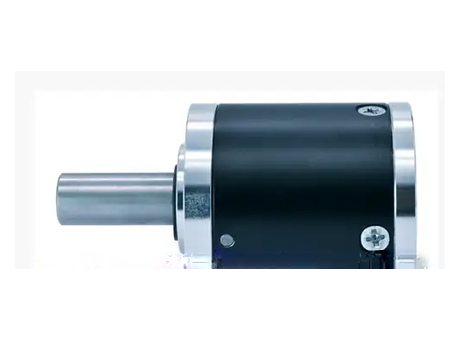
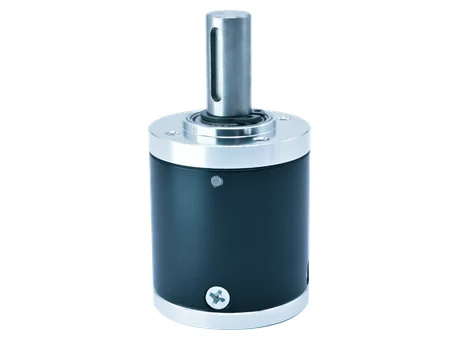
Replace 36P website and TraceParts images using newly supplied real product photo
* Replace 36P recovered image with photograph supplied directly by SigGear

* Use fresh original-photo JPG URL on 36P product page and update caption

* Temporarily build website and TraceParts JPEGs from newly supplied authentic 36P photo

* Regenerate 36P website and TraceParts JPGs from user supplied photo

* Remove temporary 36P JPG generation workflow after verified export

---------

diff --git a/docs/products/planetary-gearboxes/36p-planetary-gearbox.md b/docs/products/planetary-gearboxes/36p-planetary-gearbox.md
@@ -12,11 +12,11 @@ The SigGear 36P is a 36 mm compact planetary gearbox for compact motorized mecha
 
 ## Real Product Evidence
 
-![Real SigGear 36P 36 mm compact planetary gearbox, side view of actual product](../../assets/images/products/planetary-gearboxes/36p/36p-product-photo-20261014.jpg){ width="460" height="340" loading="eager" }
+![Actual SigGear 36P 36 mm compact planetary gearbox with complete bottom rim and output shaft](../../assets/images/products/planetary-gearboxes/36p/36p-product-photo-20261014-v2.jpg){ width="460" height="340" loading="eager" }
 
-*Real SigGear 36P gearbox sample, side-view photograph showing the housing and output shaft. This image is a visual reference; verify final dimensions and tolerances against the confirmed mechanical drawing for the selected configuration.*
+*Actual SigGear 36P sample photographed with the output shaft upright and the complete lower housing visible. The photograph is a visual reference only; verify the selected configuration against its confirmed mechanical drawing and tolerances.*
 
-[Open the 36P product photo (JPG)](../../assets/images/products/planetary-gearboxes/36p/36p-product-photo-20261014.jpg)
+[Open the updated 36P product photo (JPG)](../../assets/images/products/planetary-gearboxes/36p/36p-product-photo-20261014-v2.jpg)
 
 ## Product Identity
 
